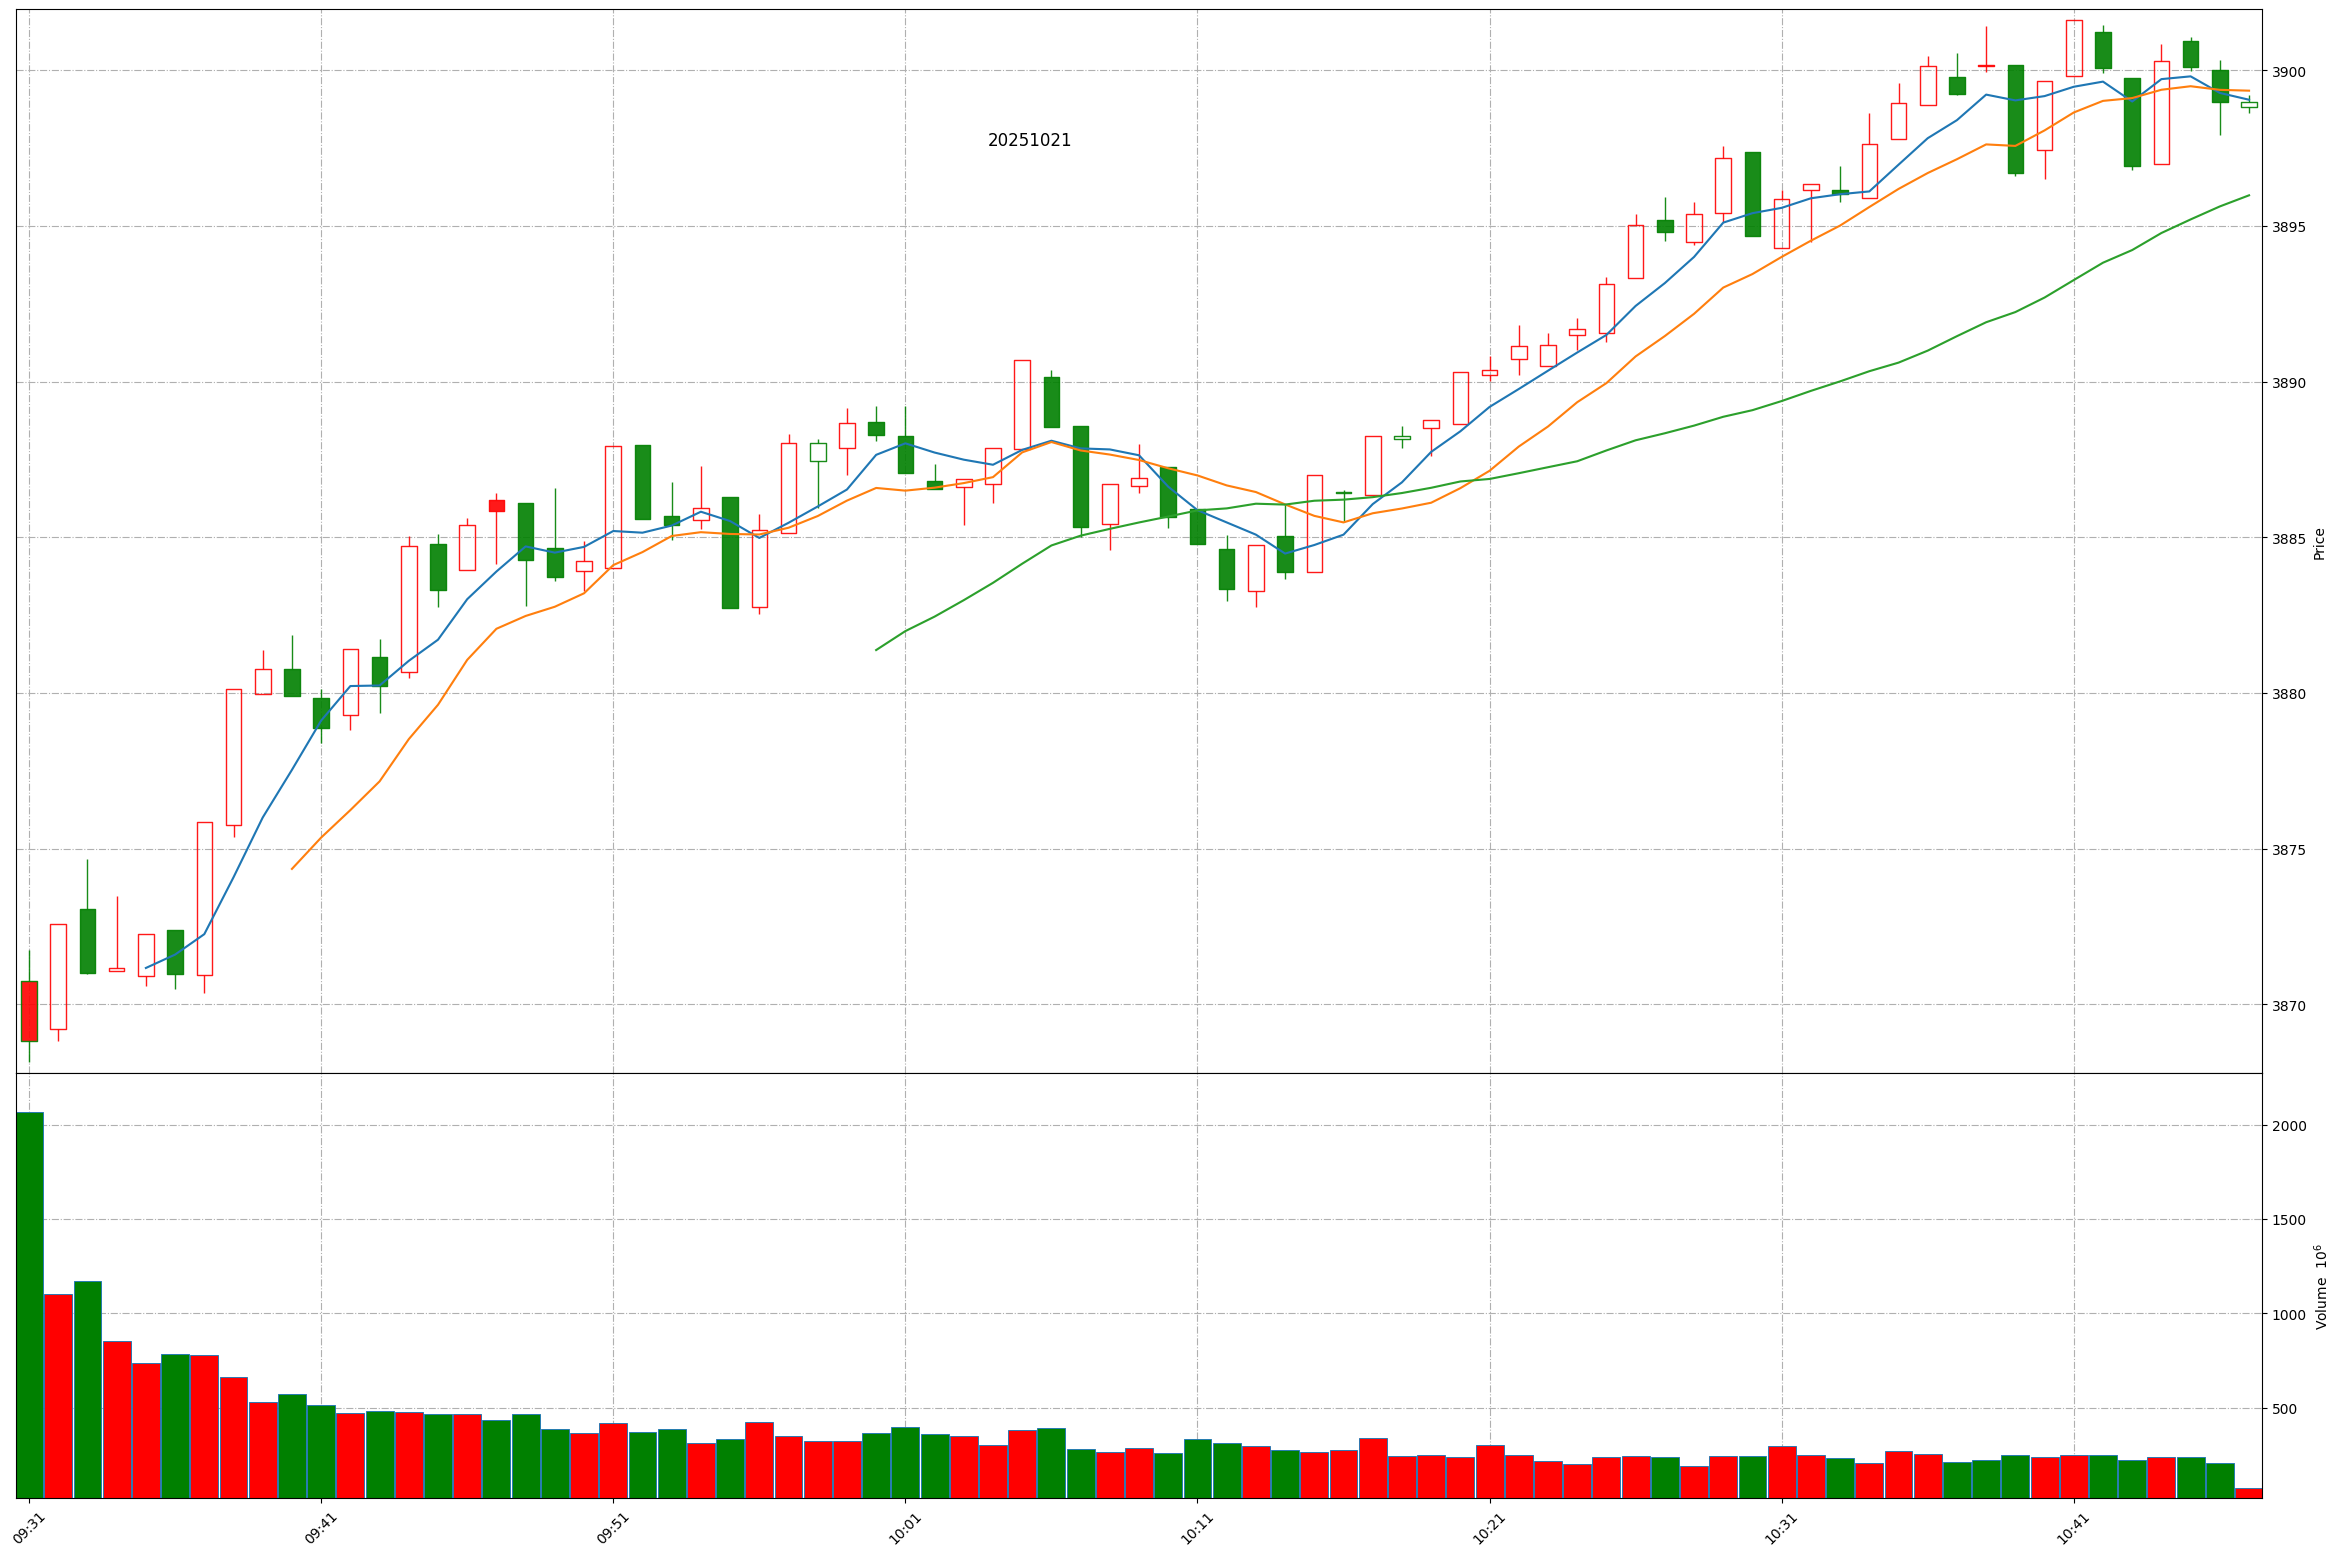
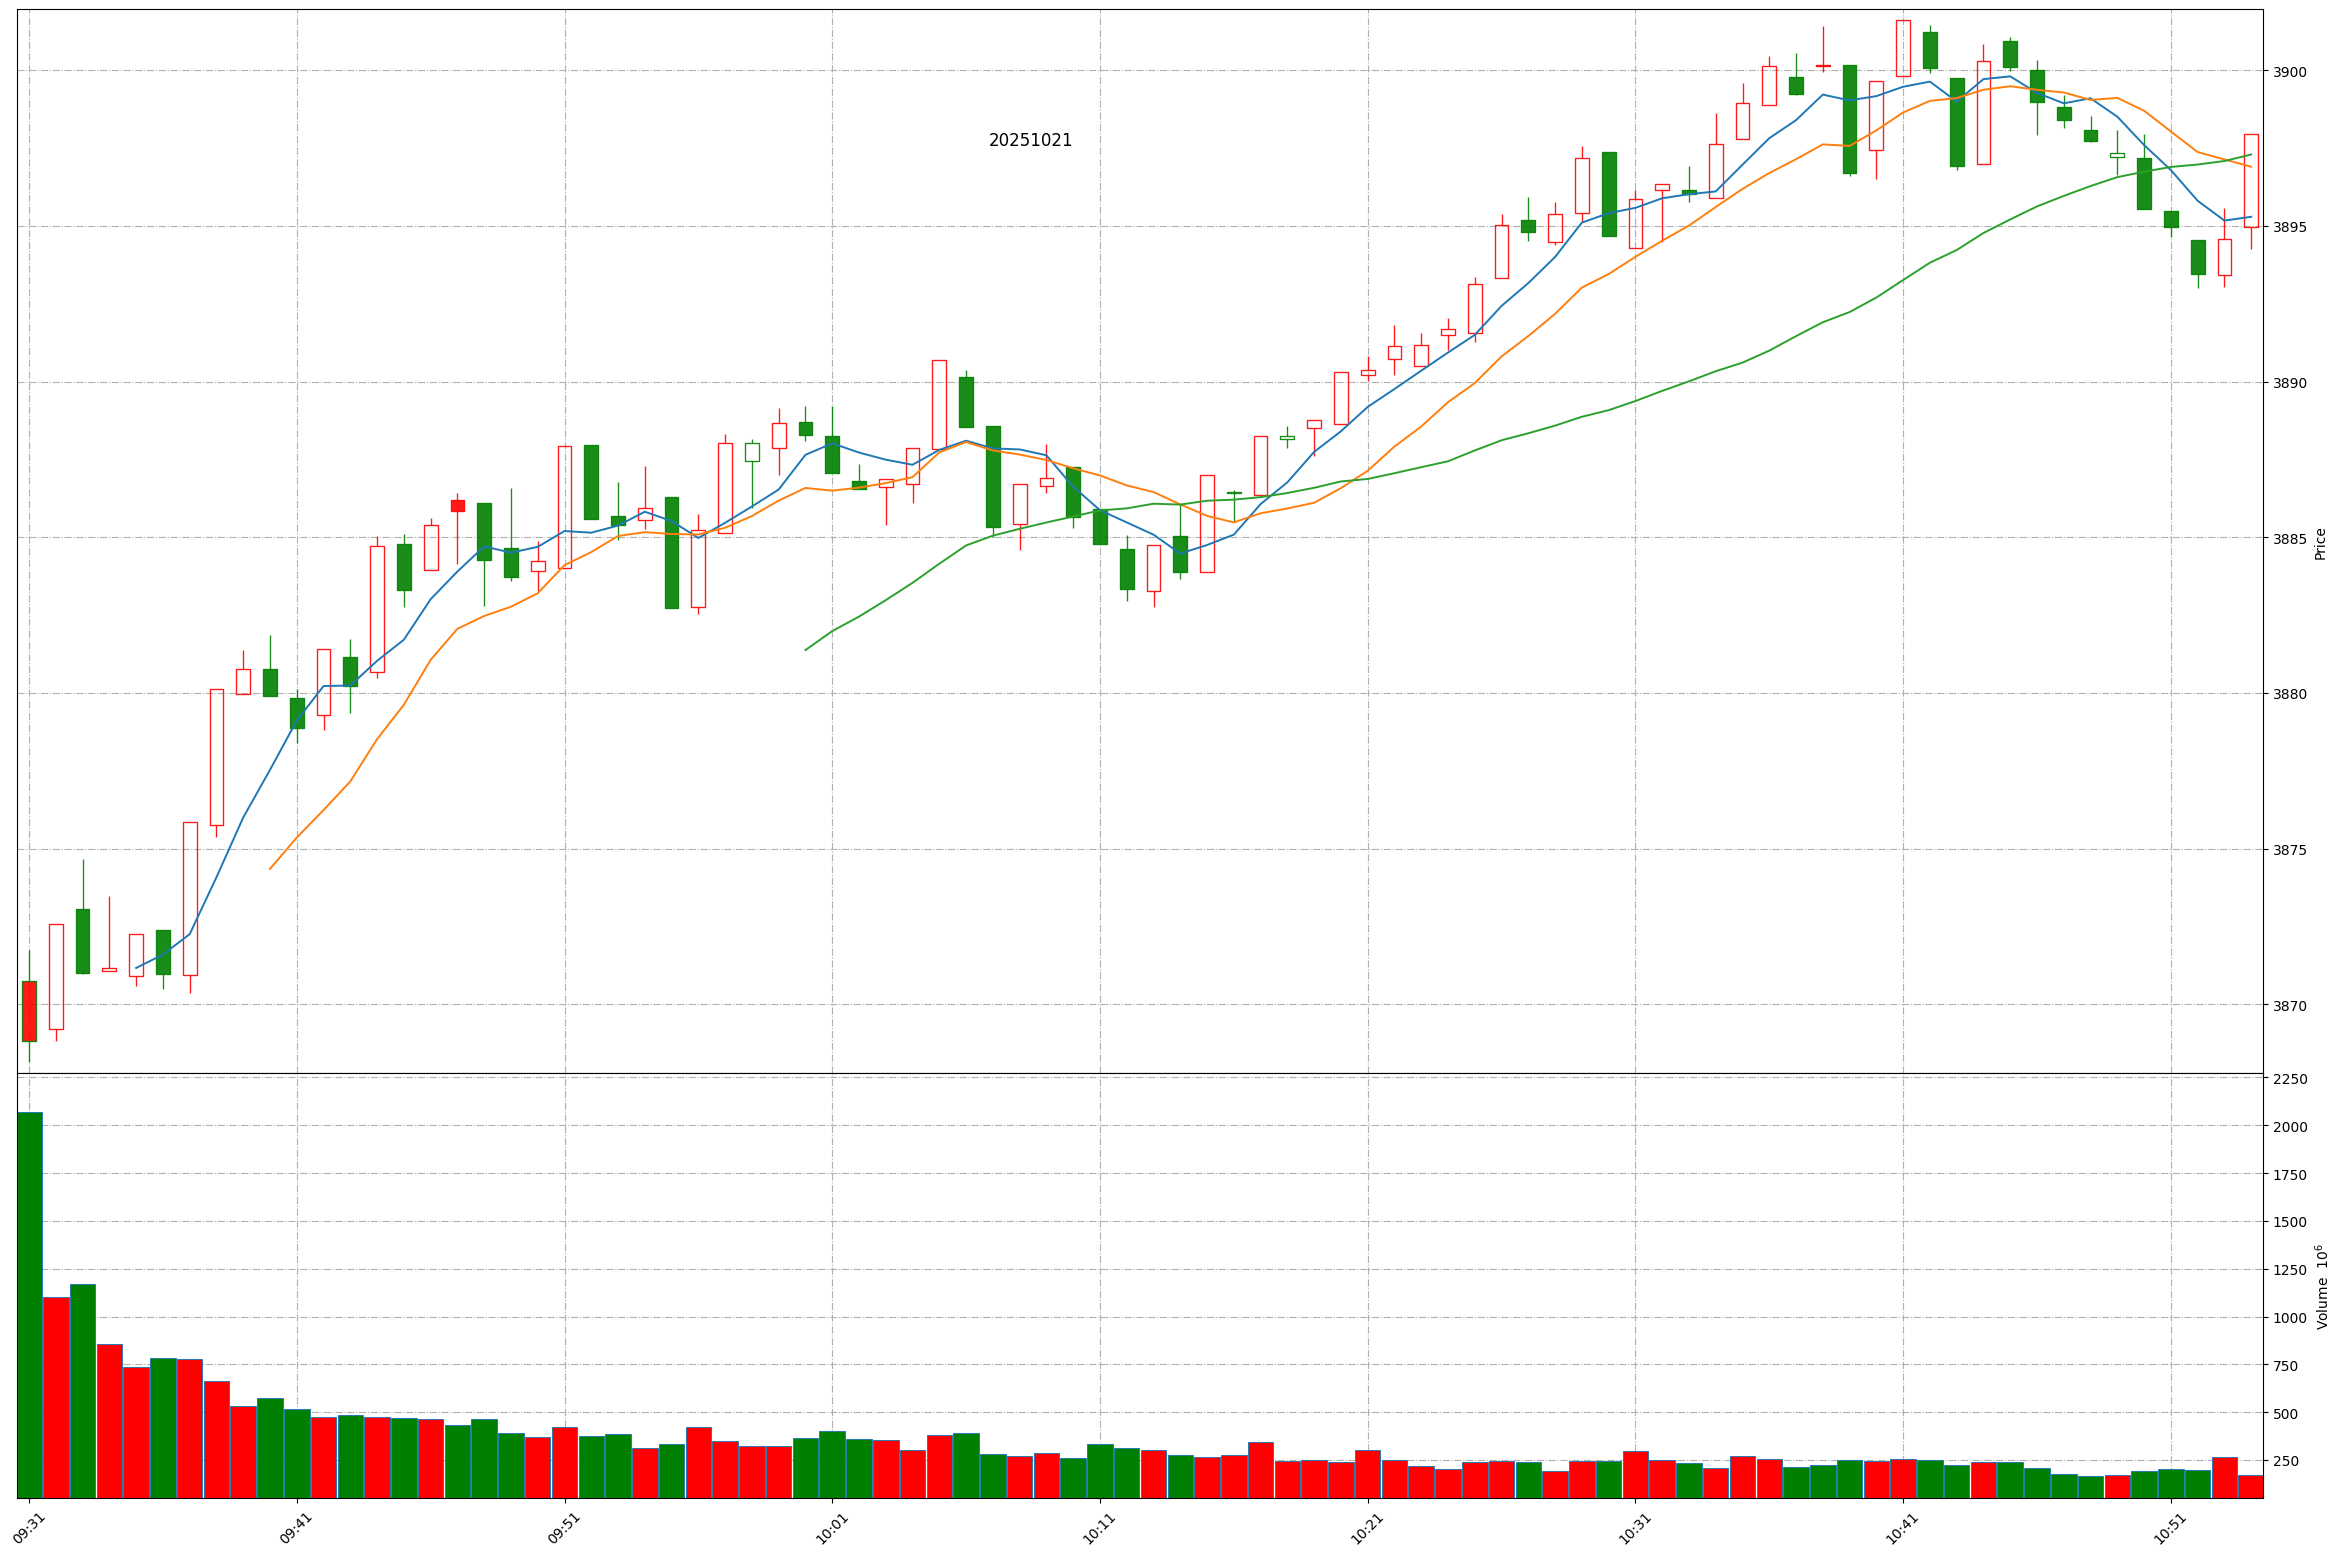
Github action update at 2025-10-21 10:54:20.

Changed region(s): [[0.0, 0.0, 0.9667, 0.6787], [0.0, 0.8329, 0.9667, 0.9871]]

diff --git a/README.md b/README.md
@@ -1,11 +1,11 @@
 
 # Daily-A-share-market-quotes 每日 A 股指数（5min 更新）- 20251021
 
-### 上证指数 20251021 10:46
+### 上证指数 20251021 10:54
 ![](./fig/2025/10/20251021-sh000001.png)
 
-### 深证成指 20251021 10:46
+### 深证成指 20251021 10:54
 ![](./fig/2025/10/20251021-sz399001.png)
 
-### 北证50 20251021 10:46
+### 北证50 20251021 10:54
 ![](./fig/2025/10/20251021-bj899050.png)
